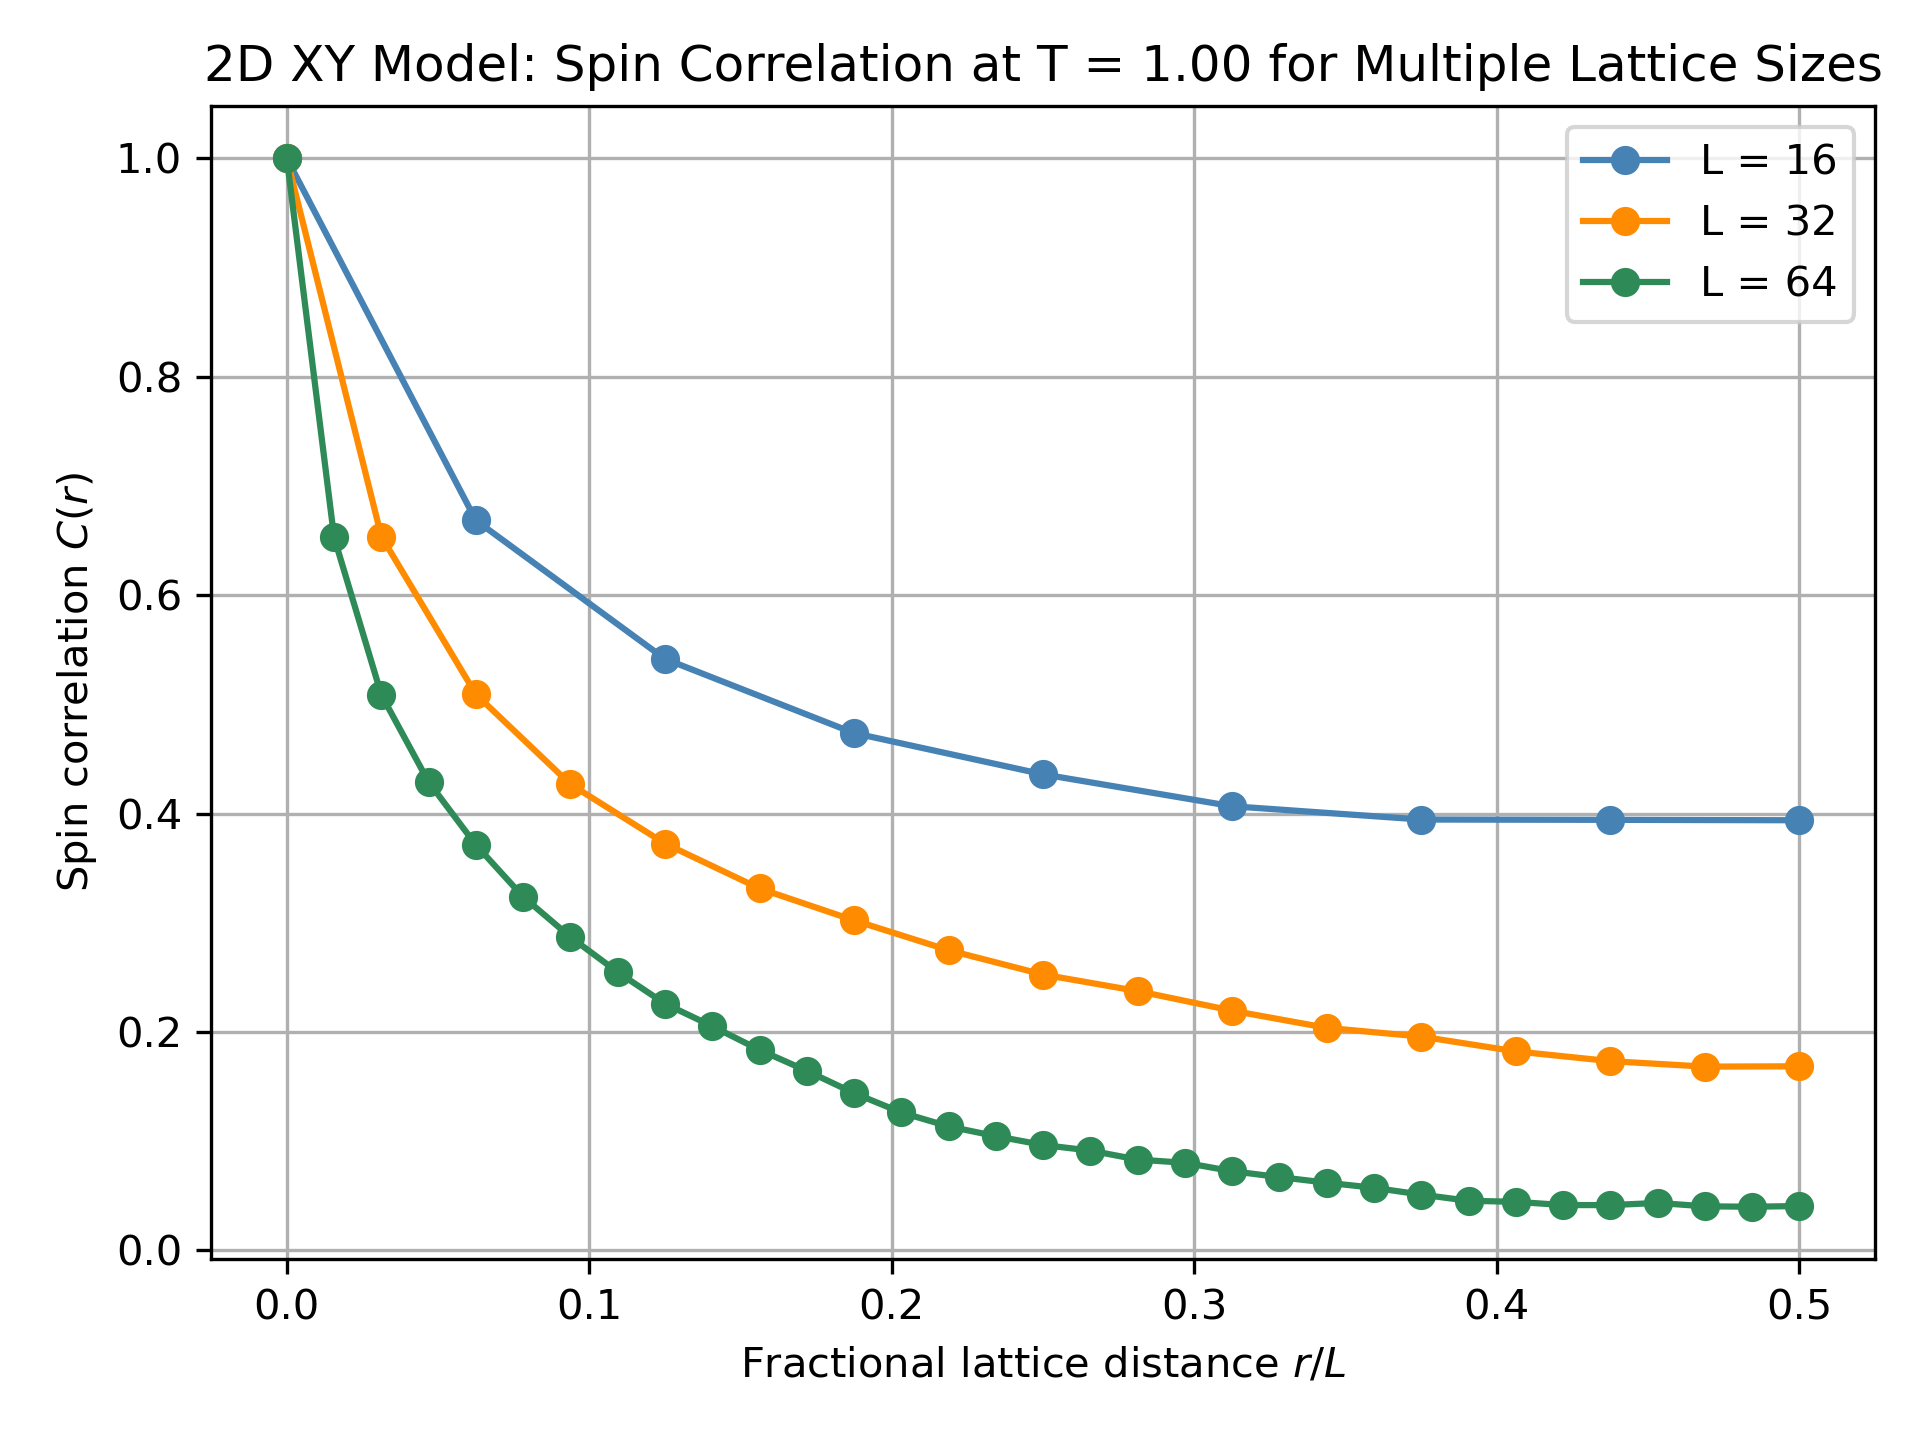
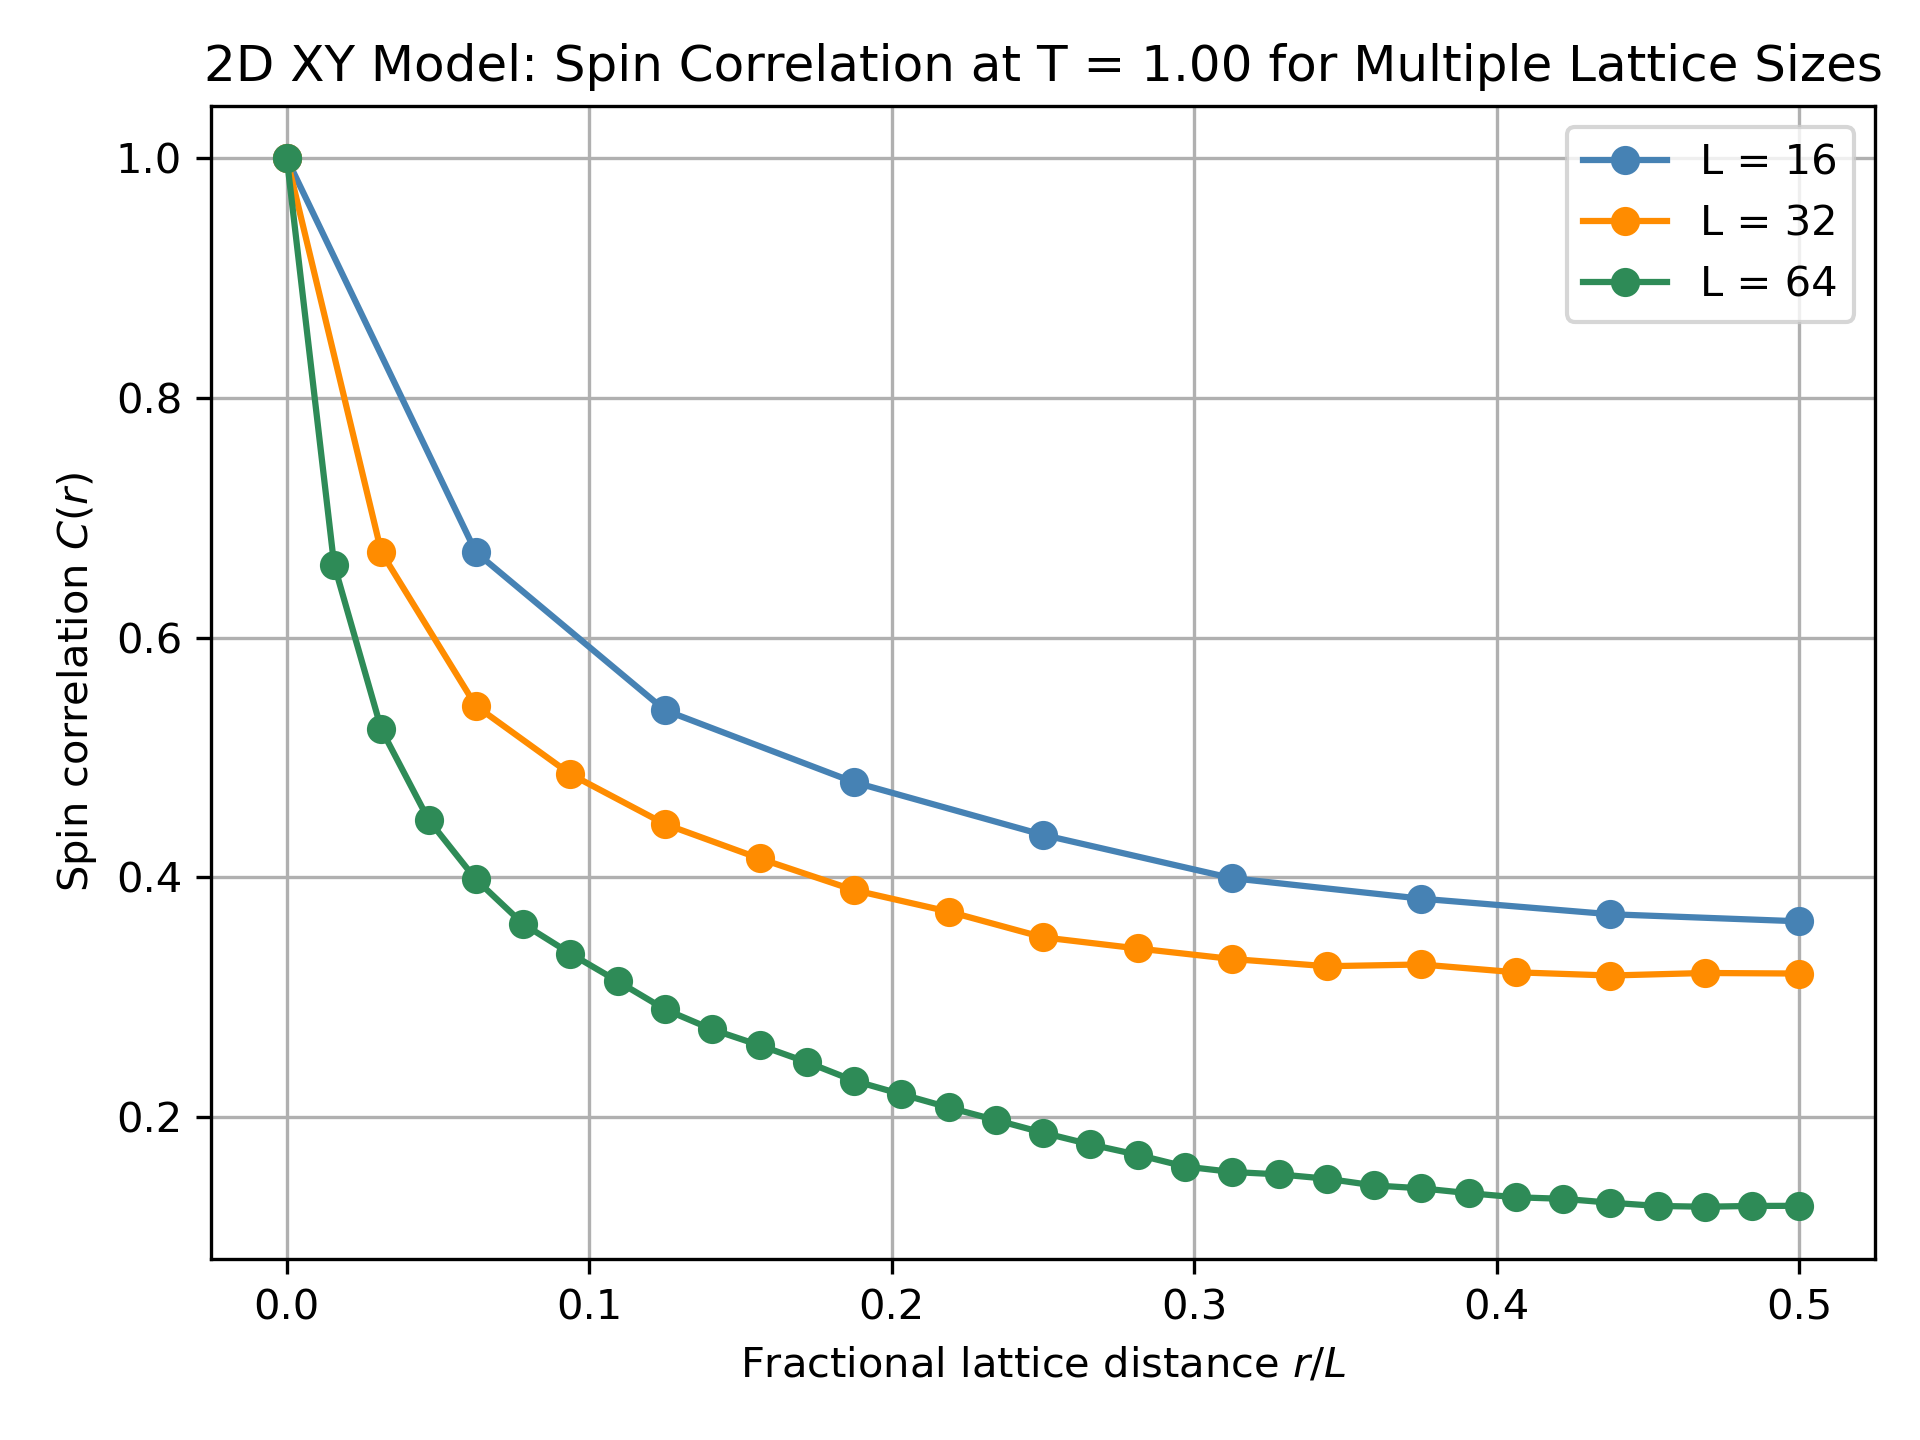
added more teperatures around Tc and reran task 3 with same parameters

diff --git a/task_3_changes.py b/task_3_changes.py
@@ -200,7 +200,8 @@ if __name__ == "__main__":
     TEMPERATURES = np.concatenate([
         np.linspace(1.0, 1.8, 5),    # coarse below transition
         np.linspace(1.8, 2.8, 21)[1:],   # fine near peak
-        np.linspace(2.8, 3.0, 3)[1:]     # coarse above transition 
+        np.linspace(2.8, 3.0, 3)[1:]    # coarse above transition
+    ]) 
     N_SWEEPS = 2000
     BURN_IN = 500
 
@@ -325,7 +326,7 @@ if __name__ == "__main__":
         plt.legend()
         plt.grid(True)
         plt.tight_layout()
-        plt.savefig("ising_energy_vs_temperature.png", dpi=300)
+        plt.savefig("ising_energy_vs_temperature_moretemps.png", dpi=300)
         plt.close()
 
         # plotting the specific heat per site against temperature
@@ -345,7 +346,7 @@ if __name__ == "__main__":
         plt.legend()
         plt.grid(True)
         plt.tight_layout()
-        plt.savefig("ising_cv_vs_temperature.png", dpi=300)
+        plt.savefig("ising_cv_vs_temperature_moretemps.png", dpi=300)
         plt.close()
 
         #
@@ -364,11 +365,11 @@ if __name__ == "__main__":
         plt.legend()
         plt.grid(True)
         plt.tight_layout()
-        plt.savefig("ising_magnetisation_vs_temperature.png", dpi=300)
+        plt.savefig("ising_magnetisation_vs_temperature_moretemps.png", dpi=300)
         plt.close()
 
         #
         print("\nSaved plots:")
-        print("ising_energy_vs_temperature.png")
-        print("ising_cv_vs_temperature.png")
-        print("ising_magnetisation_vs_temperature.png")
+        print("ising_energy_vs_temperature_moretemps.png")
+        print("ising_cv_vs_temperature_moretemps.png")
+        print("ising_magnetisation_vs_temperature_moretemps.png")

diff --git a/task4.py b/task4.py
@@ -23,9 +23,9 @@ License:
 """
 from mpi4py import MPI  # pylint: disable=no-name-in-module
 import numpy as np
-import matplotlib.pyplot as plt
 import matplotlib
 matplotlib.use("Agg")
+import matplotlib.pyplot as plt
 
 COMM = MPI.COMM_WORLD
 RANK = COMM.Get_rank()
@@ -193,7 +193,7 @@ def count_vortices(lattice):
 
     return n_vortices / (size * size)
 
-# pylint: disable=too-many-arguments,too-many-positional-arguments
+# pylint: disable=too-many-arguments,too-many-positional-arguments,too-many-locals
 def run_simulation(size, temperature, n_sweeps, j_val=1.0, seed=1234,
                    burn_in=500):
     """
@@ -202,7 +202,7 @@ def run_simulation(size, temperature, n_sweeps, j_val=1.0, seed=1234,
     Performs n_sweeps Monte Carlo sweeps discarding the first burn_in sweeps
     as equilibration. Computes specific heat from the variance of the energy
     history, spin correlation from the final lattice configuration and
-    vortex density fromt the plaquette circulation. 
+    vortex density from the plaquette circulation. 
     """
     rng = np.random.default_rng(seed)
     lattice = initialise_lattice(size, seed=seed)
@@ -445,7 +445,7 @@ if __name__ == "__main__":
 
         for plot_temp, temp_colour in zip(PLOT_TEMPS, temp_colours):
             key = round(plot_temp, 2)
-            corr = all_correlations[target_size].get(key, None)
+            corr = all_correlations[TARGET_SIZE].get(key, None)
             if corr is not None:
                 r_over_l = np.arange(len(corr)) / TARGET_SIZE
                 plt.plot(